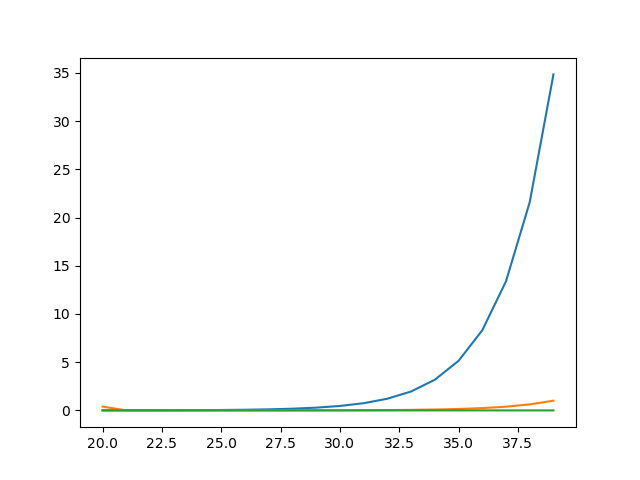
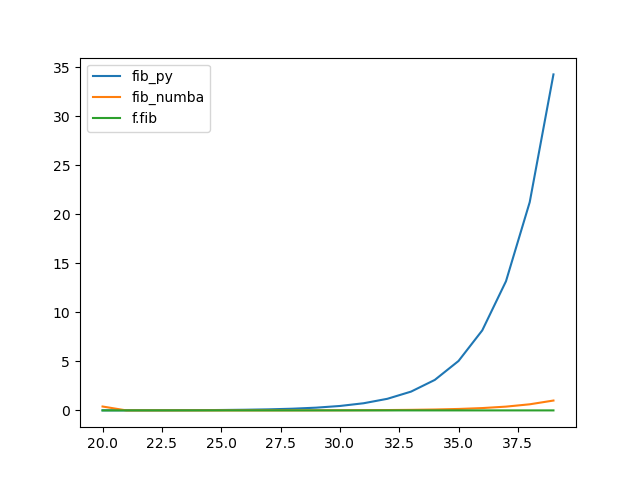
Updated MA4_2.py and png

diff --git a/MA4git/MA4_files/MA4_2.py b/MA4git/MA4_files/MA4_2.py
@@ -46,13 +46,13 @@ def main():
 		end = perf_counter()
 		timeLst.append(end-start)
 	plt.plot([ii for ii in range(20,40)], timeLst)
-	plt.savefig(f'Time for each type of calculation plotted.png')
 	plt.legend(["fib_py", "fib_numba", "f.fib"])
+	plt.savefig(f'Time for each type of calculation plotted.png')
 	plt.show()
 
 if __name__ == '__main__':
 	main()
 
 
-#Value for fib_numba = 2971215073
-#Value for f.fib = -547084288
+#Value for fib_numba 47 = 2971215073
+#Value for f.fib 47 = -547084288
